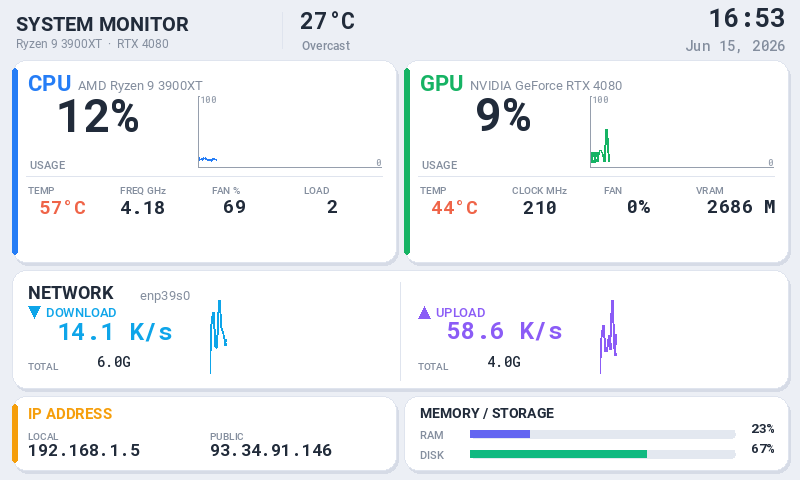
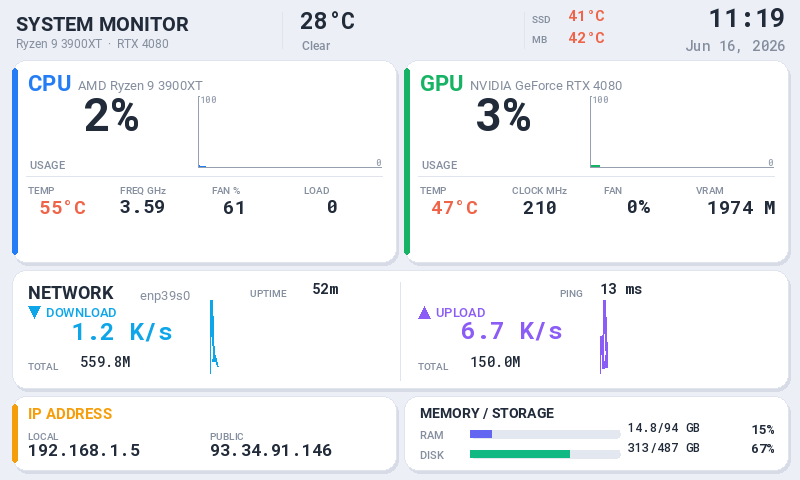
Fix rev C 5" freeze and add sensors to LightDash5inch
- Freeze fix: the Turing rev C 5" firmware stalls under too many updates
  per second (program stays alive and keeps writing to serial, but the
  display rendering hangs). Raise INTERVAL on the heavy cells: CPU/GPU/NET
  1->2s and DATE 1->5s. The 4 line-graphs were the main load.
- New custom sensors (sensors_custom.py): RamUsage, DiskUsage (used/total
  GB), Uptime (compact), PingLatency (system ping, no root needed),
  NvmeTemp and MoboTemp (psutil sensors_temperatures).
- LightDash5inch: SSD/motherboard temps in the header, uptime/ping in the
  NETWORK card, RAM/disk GB next to the shortened bars. Background and
  preview regenerated.
- config: RESET_ON_STARTUP false (correct for this 5", avoids the reset
  re-detection loop).

diff --git a/library/sensors/sensors_custom.py b/library/sensors/sensors_custom.py
@@ -24,12 +24,14 @@
 
 import math
 import platform
+import re
 import socket
 import subprocess
 import time
 from abc import ABC, abstractmethod
 from typing import List
 
+import psutil
 import requests
 
 
@@ -282,6 +284,124 @@ class WeatherDesc(CustomDataSource):
     def as_string(self) -> str:
         _Weather.refresh()
         return _Weather._desc
+
+    def last_values(self) -> List[float]:
+        pass
+
+
+# RAM usage as absolute values "used/total GB" (the native MEMORY sensor only exposes MB)
+class RamUsage(CustomDataSource):
+    def as_numeric(self) -> float:
+        pass
+
+    def as_string(self) -> str:
+        try:
+            m = psutil.virtual_memory()
+            return f"{m.used / 1024 ** 3:.1f}/{m.total / 1024 ** 3:.0f} GB"
+        except Exception:
+            return "--"
+
+    def last_values(self) -> List[float]:
+        pass
+
+
+# Root filesystem usage as absolute values "used/total GB"
+class DiskUsage(CustomDataSource):
+    def as_numeric(self) -> float:
+        pass
+
+    def as_string(self) -> str:
+        try:
+            d = psutil.disk_usage("/")
+            return f"{d.used / 1000 ** 3:.0f}/{d.total / 1000 ** 3:.0f} GB"
+        except Exception:
+            return "--"
+
+    def last_values(self) -> List[float]:
+        pass
+
+
+# System uptime in compact form (e.g. "3d 5h", "5h 12m", "12m")
+class Uptime(CustomDataSource):
+    def as_numeric(self) -> float:
+        pass
+
+    def as_string(self) -> str:
+        try:
+            secs = int(time.time() - psutil.boot_time())
+        except Exception:
+            return "--"
+        days, rem = divmod(secs, 86400)
+        hours, rem = divmod(rem, 3600)
+        mins = rem // 60
+        if days > 0:
+            return f"{days}d {hours}h"
+        if hours > 0:
+            return f"{hours}h {mins}m"
+        return f"{mins}m"
+
+    def last_values(self) -> List[float]:
+        pass
+
+
+# Network latency to 8.8.8.8 via the system 'ping' (no root needed, unlike raw ICMP).
+# Cached and refreshed every ~2s so the blocking subprocess does not slow the custom cycle.
+class PingLatency(CustomDataSource):
+    _cached = "--"
+    _last = 0.0
+
+    def as_numeric(self) -> float:
+        pass
+
+    def as_string(self) -> str:
+        now = time.time()
+        if now - PingLatency._last >= 2:
+            PingLatency._last = now
+            try:
+                out = subprocess.run(
+                    ["ping", "-c", "1", "-W", "1", "8.8.8.8"],
+                    capture_output=True, text=True, timeout=2,
+                ).stdout
+                m = re.search(r"time=([\d.]+)", out)
+                PingLatency._cached = f"{round(float(m.group(1)))} ms" if m else "--"
+            except Exception:
+                PingLatency._cached = "--"
+        return f"{PingLatency._cached:<7}"
+
+    def last_values(self) -> List[float]:
+        pass
+
+
+# Helper: read a temperature by chip name + label from psutil (cached briefly)
+def _temp_by_label(chip: str, label: str) -> str:
+    try:
+        for entry in psutil.sensors_temperatures().get(chip, []):
+            if entry.label == label:
+                return f"{round(entry.current)}°C"
+    except Exception:
+        pass
+    return "--"
+
+
+# SSD NVMe temperature (nvme / Composite)
+class NvmeTemp(CustomDataSource):
+    def as_numeric(self) -> float:
+        pass
+
+    def as_string(self) -> str:
+        return _temp_by_label("nvme", "Composite")
+
+    def last_values(self) -> List[float]:
+        pass
+
+
+# Motherboard / system temperature (nct6797 / SYSTIN)
+class MoboTemp(CustomDataSource):
+    def as_numeric(self) -> float:
+        pass
+
+    def as_string(self) -> str:
+        return _temp_by_label("nct6797", "SYSTIN")
 
     def last_values(self) -> List[float]:
         pass

diff --git a/res/themes/LightDash5inch/_generate_background.py b/res/themes/LightDash5inch/_generate_background.py
@@ -55,6 +55,10 @@ label((16, 12), "SYSTEM MONITOR", color=INK, f=F_TITLE(20))
 label((16, 36), "Ryzen 9 3900XT  ·  RTX 4080", color=SUB, f=F_REG(12))
 # divider before the weather widget (weather, date and time are drawn dynamically)
 d.line((282, 12, 282, 48), fill=BORDER, width=1)
+# divider + SSD / motherboard temperature labels (values drawn dynamically)
+d.line((524, 12, 524, 48), fill=BORDER, width=1)
+label((532, 13), "SSD", color=SUB, f=F_MED(10))
+label((532, 33), "MB", color=SUB, f=F_MED(10))
 
 # ===================== CPU CARD =====================
 card((12, 60, 396, 262), accent=CPU_C)
@@ -80,6 +84,9 @@ for cx, lab in ((420, "TEMP"), (512, "CLOCK MHz"), (604, "FAN"), (696, "VRAM")):
 card((12, 270, 788, 388))
 label((28, 282), "NETWORK", color=INK, f=F_TITLE(18))
 label((140, 287), "enp39s0", color=SUB, f=F_REG(13))
+# uptime / ping labels (values drawn dynamically)
+label((250, 287), "UPTIME", color=SUB, f=F_MED(10))
+label((560, 287), "PING", color=SUB, f=F_MED(10))
 d.line((400, 282, 400, 380), fill=BORDER, width=1)
 
 def arrow(cx, cy, up, color):
@@ -110,8 +117,9 @@ label((420, 405), "MEMORY / STORAGE", color=INK, f=F_TITLE(14))
 label((420, 428), "RAM", color=SUB, f=F_MED(11))
 label((420, 448), "DISK", color=SUB, f=F_MED(11))
 # bar tracks (background) - the colored fill is drawn on top by the theme
-d.rounded_rectangle((470, 430, 735, 438), radius=4, fill=TRACK)
-d.rounded_rectangle((470, 450, 735, 458), radius=4, fill=TRACK)
+# shortened to leave room for the absolute used/total GB values on the right
+d.rounded_rectangle((470, 430, 620, 438), radius=4, fill=TRACK)
+d.rounded_rectangle((470, 450, 620, 458), radius=4, fill=TRACK)
 
 img.save(os.path.join(HERE, "background.png"))
 print("background.png saved:", os.path.join(HERE, "background.png"))